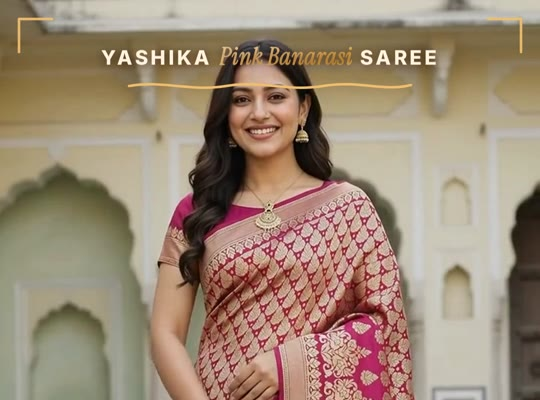
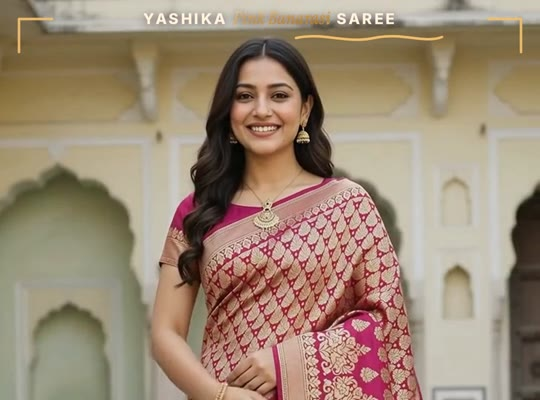
Barsaat beat cuts (136 BPM): reel_s02v4 + reel_k05v3 with face-safe doodle layer

Changed region(s): [[0.1778, 0.03, 0.8296, 1.0]]

diff --git a/docs/videos/index.html b/docs/videos/index.html
@@ -184,7 +184,7 @@ const VIDEOS = [
   { id:"dw-song", title:"Diwali Reel — Bandhani Saree · with song", product:"TJF-S01", dressName:"Satrani Magenta Bandhani Saree",
     serial:"TJF-S01 · ASIN B0FDLFLYMQ", type:"song", version:"diwali", dur:"0:20",
     src:"https://github.com/earning-cpu/nightingale-films/releases/download/videos/diwali_reel_MUSIC_REF.mp4", thumb:"thumbs/dw_a.jpg",
-    productUrl:"https://www.amazon.in/dp/B0FDLFLYMQ?tag=thejaipurifit-21", song:"Mast Magan · 83 BPM · hook" },
+    productUrl:"https://www.amazon.in/dp/B0FDLFLYMQ?tag=thejaipurifit-21", song:"Barsaat (Banjaare) · 136 BPM · hook" },
   { id:"dw-nomusic", title:"Diwali Reel — Bandhani Saree · no music", product:"TJF-S01", dressName:"Satrani Magenta Bandhani Saree",
     serial:"TJF-S01 · ASIN B0FDLFLYMQ", type:"nomusic", version:"diwali", dur:"0:20",
     src:"https://github.com/earning-cpu/nightingale-films/releases/download/videos/diwali_reel_NOMUSIC.mp4", thumb:"thumbs/dw_b.jpg",
@@ -221,31 +221,31 @@ const VIDEOS = [
     src:"https://github.com/earning-cpu/nightingale-films/releases/download/videos/reel_k01v2_SILENT.mp4", thumb:"thumbs/k01v2_c.jpg",
     productUrl:"https://www.amazon.in/dp/B0H8SBFJBX?tag=thejaipurifit-21", song:"no audio at all" },
   // ---------- TJF-S02 Yashika Pink Banarasi Saree ----------
-  { id:"s02-song", title:"Banarasi Saree — Story Cut V3 · with song", product:"TJF-S02", dressName:"Yashika Banarasi Art Silk Saree (Maliya Pink)",
-    serial:"TJF-S02 · ASIN B0CDQDCWSD", type:"song", version:"s02", page:"../silk-saree-reel/", dur:"0:12",
-    src:"https://github.com/earning-cpu/nightingale-films/releases/download/videos/reel_s02v3_MUSIC_REF.mp4", thumb:"thumbs/s02_a.jpg",
-    productUrl:"https://www.amazon.in/dp/B0CDQDCWSD?tag=thejaipurifit-21", song:"Mast Magan · 83 BPM · hook" },
-  { id:"s02-nomusic", title:"Banarasi Saree — Story Cut V3 · no music", product:"TJF-S02", dressName:"Yashika Banarasi Art Silk Saree (Maliya Pink)",
-    serial:"TJF-S02 · ASIN B0CDQDCWSD", type:"nomusic", version:"s02", page:"../silk-saree-reel/", dur:"0:12",
-    src:"https://github.com/earning-cpu/nightingale-films/releases/download/videos/reel_s02v3_NOMUSIC.mp4", thumb:"thumbs/s02_b.jpg",
+  { id:"s02-song", title:"Banarasi Saree — Barsaat Beat Cut · with song", product:"TJF-S02", dressName:"Yashika Banarasi Art Silk Saree (Maliya Pink)",
+    serial:"TJF-S02 · ASIN B0CDQDCWSD", type:"song", version:"s02", page:"../silk-saree-reel/", dur:"0:11",
+    src:"https://github.com/earning-cpu/nightingale-films/releases/download/videos/reel_s02v4_MUSIC_REF.mp4", thumb:"thumbs/s02_a.jpg",
+    productUrl:"https://www.amazon.in/dp/B0CDQDCWSD?tag=thejaipurifit-21", song:"Barsaat (Banjaare) · 136 BPM · hook" },
+  { id:"s02-nomusic", title:"Banarasi Saree — Barsaat Beat Cut · no music", product:"TJF-S02", dressName:"Yashika Banarasi Art Silk Saree (Maliya Pink)",
+    serial:"TJF-S02 · ASIN B0CDQDCWSD", type:"nomusic", version:"s02", page:"../silk-saree-reel/", dur:"0:11",
+    src:"https://github.com/earning-cpu/nightingale-films/releases/download/videos/reel_s02v4_NOMUSIC.mp4", thumb:"thumbs/s02_b.jpg",
     productUrl:"https://www.amazon.in/dp/B0CDQDCWSD?tag=thejaipurifit-21", song:"beat bed · upload this" },
-  { id:"s02-silent", title:"Banarasi Saree — Story Cut V3 · silent", product:"TJF-S02", dressName:"Yashika Banarasi Art Silk Saree (Maliya Pink)",
-    serial:"TJF-S02 · ASIN B0CDQDCWSD", type:"silent", version:"s02", page:"../silk-saree-reel/", dur:"0:12",
-    src:"https://github.com/earning-cpu/nightingale-films/releases/download/videos/reel_s02v3_SILENT.mp4", thumb:"thumbs/s02_c.jpg",
+  { id:"s02-silent", title:"Banarasi Saree — Barsaat Beat Cut · silent", product:"TJF-S02", dressName:"Yashika Banarasi Art Silk Saree (Maliya Pink)",
+    serial:"TJF-S02 · ASIN B0CDQDCWSD", type:"silent", version:"s02", page:"../silk-saree-reel/", dur:"0:11",
+    src:"https://github.com/earning-cpu/nightingale-films/releases/download/videos/reel_s02v4_SILENT.mp4", thumb:"thumbs/s02_c.jpg",
     productUrl:"https://www.amazon.in/dp/B0CDQDCWSD?tag=thejaipurifit-21", song:"no audio at all" },
 
   // ---------- TJF-K05 Klosia Maroon Anarkali ----------
-  { id:"k05-song", title:"Anarkali Kurta Set — Story Cut V2 · with song", product:"TJF-K05", dressName:"Klosia Maroon Printed Anarkali Kurta Set",
+  { id:"k05-song", title:"Anarkali Kurta Set — Barsaat Beat Cut · with song", product:"TJF-K05", dressName:"Klosia Maroon Printed Anarkali Kurta Set",
     serial:"TJF-K05 · ASIN B0FRFXX2C3", type:"song", version:"k05", page:"../maroon-kurta-reel/", dur:"0:09",
-    src:"https://github.com/earning-cpu/nightingale-films/releases/download/videos/reel_k05v2_MUSIC_REF.mp4", thumb:"thumbs/k05_a.jpg",
-    productUrl:"https://www.amazon.in/dp/B0FRFXX2C3?tag=thejaipurifit-21", song:"Mast Magan · 83 BPM · hook" },
-  { id:"k05-nomusic", title:"Anarkali Kurta Set — Story Cut V2 · no music", product:"TJF-K05", dressName:"Klosia Maroon Printed Anarkali Kurta Set",
+    src:"https://github.com/earning-cpu/nightingale-films/releases/download/videos/reel_k05v3_MUSIC_REF.mp4", thumb:"thumbs/k05_a.jpg",
+    productUrl:"https://www.amazon.in/dp/B0FRFXX2C3?tag=thejaipurifit-21", song:"Barsaat (Banjaare) · 136 BPM · hook" },
+  { id:"k05-nomusic", title:"Anarkali Kurta Set — Barsaat Beat Cut · no music", product:"TJF-K05", dressName:"Klosia Maroon Printed Anarkali Kurta Set",
     serial:"TJF-K05 · ASIN B0FRFXX2C3", type:"nomusic", version:"k05", page:"../maroon-kurta-reel/", dur:"0:09",
-    src:"https://github.com/earning-cpu/nightingale-films/releases/download/videos/reel_k05v2_NOMUSIC.mp4", thumb:"thumbs/k05_b.jpg",
+    src:"https://github.com/earning-cpu/nightingale-films/releases/download/videos/reel_k05v3_NOMUSIC.mp4", thumb:"thumbs/k05_b.jpg",
     productUrl:"https://www.amazon.in/dp/B0FRFXX2C3?tag=thejaipurifit-21", song:"beat bed · upload this" },
-  { id:"k05-silent", title:"Anarkali Kurta Set — Story Cut V2 · silent", product:"TJF-K05", dressName:"Klosia Maroon Printed Anarkali Kurta Set",
+  { id:"k05-silent", title:"Anarkali Kurta Set — Barsaat Beat Cut · silent", product:"TJF-K05", dressName:"Klosia Maroon Printed Anarkali Kurta Set",
     serial:"TJF-K05 · ASIN B0FRFXX2C3", type:"silent", version:"k05", page:"../maroon-kurta-reel/", dur:"0:09",
-    src:"https://github.com/earning-cpu/nightingale-films/releases/download/videos/reel_k05v2_SILENT.mp4", thumb:"thumbs/k05_c.jpg",
+    src:"https://github.com/earning-cpu/nightingale-films/releases/download/videos/reel_k05v3_SILENT.mp4", thumb:"thumbs/k05_c.jpg",
     productUrl:"https://www.amazon.in/dp/B0FRFXX2C3?tag=thejaipurifit-21", song:"no audio at all" },
 ];
 

diff --git a/docs/silk-saree-reel/index.html b/docs/silk-saree-reel/index.html
@@ -41,23 +41,23 @@
 <div class="wrap">
   <a class="back" href="../videos/">← All reels (library)</a>
   <h1>Yashika <em>Pink Banarasi</em> Saree</h1>
-  <div class="sub">TJF-S02 · ASIN B0CDQDCWSD · Story Cut V3 · 11.46s · 1080×1920 · 24fps · full quality (no re-compression)</div>
+  <div class="sub">TJF-S02 · ASIN B0CDQDCWSD · Barsaat Beat Cut · 10.54s · 1080×1920 · 24fps · full quality (no re-compression)</div>
 
   <div class="video-box">
     <video controls playsinline preload="metadata"
-      poster="https://github.com/earning-cpu/nightingale-films/releases/download/videos/reel_s02v3_MUSIC_REF_poster.jpg">
-      <source src="https://github.com/earning-cpu/nightingale-films/releases/download/videos/reel_s02v3_MUSIC_REF.mp4" type="video/mp4">
+      poster="https://github.com/earning-cpu/nightingale-films/releases/download/videos/reel_s02v4_MUSIC_REF_poster.jpg">
+      <source src="https://github.com/earning-cpu/nightingale-films/releases/download/videos/reel_s02v4_MUSIC_REF.mp4" type="video/mp4">
     </video>
   </div>
 
   <div class="dl-title">Direct download — fastest (global CDN)</div>
   <div class="dl">
-    <a class="main" href="https://github.com/earning-cpu/nightingale-films/releases/download/videos/reel_s02v3_NOMUSIC.mp4">
-      <span>🎬 NOMUSIC — with 83 BPM beat bed (upload this)</span><span class="sz">15.6 MB</span></a>
-    <a href="https://github.com/earning-cpu/nightingale-films/releases/download/videos/reel_s02v3_MUSIC_REF.mp4">
-      <span>🎵 MUSIC REF — Mast Magan baked (reference)</span><span class="sz">15.7 MB</span></a>
-    <a href="https://github.com/earning-cpu/nightingale-films/releases/download/videos/reel_s02v3_SILENT.mp4">
-      <span>🔇 SILENT — no audio</span><span class="sz">15.6 MB</span></a>
+    <a class="main" href="https://github.com/earning-cpu/nightingale-films/releases/download/videos/reel_s02v4_NOMUSIC.mp4">
+      <span>🎬 NOMUSIC — with 136 BPM beat bed (upload this)</span><span class="sz">12.9 MB</span></a>
+    <a href="https://github.com/earning-cpu/nightingale-films/releases/download/videos/reel_s02v4_MUSIC_REF.mp4">
+      <span>🎵 MUSIC REF — Barsaat baked (reference)</span><span class="sz">13.1 MB</span></a>
+    <a href="https://github.com/earning-cpu/nightingale-films/releases/download/videos/reel_s02v4_SILENT.mp4">
+      <span>🔇 SILENT — no audio</span><span class="sz">12.8 MB</span></a>
   </div>
 
   <div class="card">
@@ -70,14 +70,22 @@
   </div>
 
   <div class="card">
+    <h2>Song — #1 trending in India (Oct 2026)</h2>
+    <div class="facts">
+      <b>"Barsaat" — Banjaare &amp; Roni</b> (Sony Music India) · <b>136 BPM</b>, G major<br>
+      28.3M weekly streams · top of the Spotify-India Reels chart · viral hook ≈ 0:17 in the full song
+    </div>
+  </div>
+
+  <div class="card">
     <h2>Beat map — cuts land exactly here</h2>
     <table>
       <tr><th>Beats</th><th>Time</th><th>Story</th></tr>
-      <tr><td>1–2</td><td>0.00–1.45</td><td>She poses</td></tr>
-      <tr><td>3–5</td><td>1.45–3.62</td><td>She settles into the look</td></tr>
-      <tr><td>6–8</td><td>3.62–6.50</td><td>She holds the gaze</td></tr>
-      <tr><td>9–11</td><td>6.50–7.95</td><td>She turns</td></tr>
-      <tr><td>12–16</td><td>7.95–11.46</td><td>She smiles — ends mid-sway</td></tr>
+      <tr><td>1–4</td><td>0.00–1.76</td><td>She poses</td></tr>
+      <tr><td>5–8</td><td>1.76–3.53</td><td>She settles into the look</td></tr>
+      <tr><td>9–12</td><td>3.53–5.29</td><td>She holds the gaze</td></tr>
+      <tr><td>13–16</td><td>5.29–7.06</td><td>She turns</td></tr>
+      <tr><td>17–24</td><td>7.06–10.54</td><td>She smiles — ends mid-sway</td></tr>
     </table>
   </div>
 
@@ -90,7 +98,7 @@ https://www.amazon.in/dp/B0CDQDCWSD?tag=thejaipurifit-21</div>
   </div>
 
   <div class="note">
-    <b>Upload flow:</b> post the NOMUSIC copy → add <b>Mast Magan</b> (83 BPM) in-app → align the song's first beat to 0:00 → every cut lands on a downbeat.<br>
+    <b>Upload flow:</b> post the NOMUSIC copy → add <b>Barsaat</b> (the trending audio) in-app → slide its first beat onto the first bed tick (0:00) → every cut lands on a downbeat.<br>
     Files stream and download from GitHub's global CDN — MP4s are moov-first (<code>+faststart</code>) so playback begins instantly, at full quality.
   </div>
 </div>

diff --git a/docs/maroon-kurta-reel/index.html b/docs/maroon-kurta-reel/index.html
@@ -41,23 +41,23 @@
 <div class="wrap">
   <a class="back" href="../videos/">← All reels (library)</a>
   <h1>Klosia <em>Maroon Anarkali</em> Set</h1>
-  <div class="sub">TJF-K05 · ASIN B0FRFXX2C3 · Story Cut V2 · 8.67s · 1080×1920 · 24fps · full quality (no re-compression)</div>
+  <div class="sub">TJF-K05 · ASIN B0FRFXX2C3 · Barsaat Beat Cut · 8.83s · 1080×1920 · 24fps · full quality (no re-compression)</div>
 
   <div class="video-box">
     <video controls playsinline preload="metadata"
-      poster="https://github.com/earning-cpu/nightingale-films/releases/download/videos/reel_k05v2_MUSIC_REF_poster.jpg">
-      <source src="https://github.com/earning-cpu/nightingale-films/releases/download/videos/reel_k05v2_MUSIC_REF.mp4" type="video/mp4">
+      poster="https://github.com/earning-cpu/nightingale-films/releases/download/videos/reel_k05v3_MUSIC_REF_poster.jpg">
+      <source src="https://github.com/earning-cpu/nightingale-films/releases/download/videos/reel_k05v3_MUSIC_REF.mp4" type="video/mp4">
     </video>
   </div>
 
   <div class="dl-title">Direct download — fastest (global CDN)</div>
   <div class="dl">
-    <a class="main" href="https://github.com/earning-cpu/nightingale-films/releases/download/videos/reel_k05v2_NOMUSIC.mp4">
-      <span>🎬 NOMUSIC — with 83 BPM beat bed (upload this)</span><span class="sz">18.9 MB</span></a>
-    <a href="https://github.com/earning-cpu/nightingale-films/releases/download/videos/reel_k05v2_MUSIC_REF.mp4">
-      <span>🎵 MUSIC REF — Mast Magan baked (reference)</span><span class="sz">19.0 MB</span></a>
-    <a href="https://github.com/earning-cpu/nightingale-films/releases/download/videos/reel_k05v2_SILENT.mp4">
-      <span>🔇 SILENT — no audio</span><span class="sz">18.8 MB</span></a>
+    <a class="main" href="https://github.com/earning-cpu/nightingale-films/releases/download/videos/reel_k05v3_NOMUSIC.mp4">
+      <span>🎬 NOMUSIC — with 136 BPM beat bed (upload this)</span><span class="sz">18.7 MB</span></a>
+    <a href="https://github.com/earning-cpu/nightingale-films/releases/download/videos/reel_k05v3_MUSIC_REF.mp4">
+      <span>🎵 MUSIC REF — Barsaat baked (reference)</span><span class="sz">18.9 MB</span></a>
+    <a href="https://github.com/earning-cpu/nightingale-films/releases/download/videos/reel_k05v3_SILENT.mp4">
+      <span>🔇 SILENT — no audio</span><span class="sz">18.7 MB</span></a>
   </div>
 
   <div class="card">
@@ -70,14 +70,22 @@
   </div>
 
   <div class="card">
+    <h2>Song — #1 trending in India (Oct 2026)</h2>
+    <div class="facts">
+      <b>"Barsaat" — Banjaare &amp; Roni</b> (Sony Music India) · <b>136 BPM</b>, G major<br>
+      28.3M weekly streams · top of the Spotify-India Reels chart · viral hook ≈ 0:17 in the full song
+    </div>
+  </div>
+
+  <div class="card">
     <h2>Beat map — cuts land exactly here</h2>
     <table>
       <tr><th>Beats</th><th>Time</th><th>Story</th></tr>
-      <tr><td>1</td><td>0.00–0.72</td><td>She poses</td></tr>
-      <tr><td>2–3</td><td>0.72–2.17</td><td>She flares the skirt</td></tr>
-      <tr><td>4–6</td><td>2.17–4.33</td><td>She smiles</td></tr>
-      <tr><td>7–9</td><td>4.33–6.50</td><td>She glides</td></tr>
-      <tr><td>10–12</td><td>6.50–8.67</td><td>She settles & smiles — ends mid-motion</td></tr>
+      <tr><td>1–2</td><td>0.00–0.88</td><td>She poses</td></tr>
+      <tr><td>3–6</td><td>0.88–2.65</td><td>She flares the skirt</td></tr>
+      <tr><td>7–10</td><td>2.65–4.41</td><td>She smiles</td></tr>
+      <tr><td>11–14</td><td>4.41–6.18</td><td>She glides</td></tr>
+      <tr><td>15–20</td><td>6.18–8.83</td><td>She settles & smiles — ends mid-motion</td></tr>
     </table>
   </div>
 
@@ -90,7 +98,7 @@ https://www.amazon.in/dp/B0FRFXX2C3?tag=thejaipurifit-21</div>
   </div>
 
   <div class="note">
-    <b>Upload flow:</b> post the NOMUSIC copy → add <b>Mast Magan</b> (83 BPM) in-app → align the song's first beat to 0:00 → every cut lands on a downbeat.<br>
+    <b>Upload flow:</b> post the NOMUSIC copy → add <b>Barsaat</b> (the trending audio) in-app → slide its first beat onto the first bed tick (0:00) → every cut lands on a beat.<br>
     Files stream and download from GitHub's global CDN — MP4s are moov-first (<code>+faststart</code>) so playback begins instantly, at full quality.
   </div>
 </div>

diff --git a/docs/maroon-kurta-reel/README.md b/docs/maroon-kurta-reel/README.md
@@ -1,35 +1,30 @@
-# Klosia Maroon Anarkali Set — Story Cut V2 (TJF-K05)
+# Klosia Maroon Anarkali Set — Barsaat Beat Cut (TJF-K05)
 
 **Product (verified from Amazon):** KLOSIA Women's Rayon Printed **Anarkali Kurta and Pant with Dupatta Set** — **Maroon** · ASIN **B0FRFXX2C3** · **₹660** (MRP ₹2,999, 78% off) · 4.1★ (11,163) · #1 Best Seller in Clothing & Accessories · 6K+ bought/month · sizes S–5XL
 **Buy link:** https://www.amazon.in/dp/B0FRFXX2C3?tag=thejaipurifit-21
 
-**Reel length: 8.67s (3 bars @ 83 BPM)** — inside the 7–15s viral bracket (2026 data: highest completion 60–80%, 1.8× more replays). Ends mid-smile-motion — no pause.
+**Reel length: 8.83s (5 bars @ 136 BPM)** — inside the 7–15s viral bracket. Ends mid-smile-motion — no pause.
 
-**Song:** "Mast Magan" · Arijit Singh & Chinmayi (2 States) — **83 BPM**, G major. #1 trending India sound (1.4M+ reels, Oct 2026).
-**Upload flow:** post `_NOMUSIC` → add **Mast Magan** in-app → align the song's first beat to video 0:00 → cuts land on beats 1/3/6/9.
+**Song:** "Barsaat" · Banjaare & Roni (Sony Music India, 2026) — **136 BPM**, G major. **#1 most trending Instagram song in India (Oct 2026)** — 28.3M weekly streams, top of the Spotify-India Reels chart.
+**Upload flow:** post `_NOMUSIC` → add **Barsaat** (the trending audio) in-app → slide its first beat onto the first bed tick (video 0:00) → every cut lands on a beat.
 
-## Story cut (every frame studied at native fps; cuts on action boundaries + beats; 5-frame crossfades)
+## Story cut (cuts on action boundaries + beats; 5-frame crossfades)
 | Beats | Time | Story | Source window | Speed |
 |---|---|---|---|---|
-| 1 | 0.00–0.72 | She poses | b3 0.00–0.60 | 0.72× |
-| 2–3 | 0.72–2.17 | She flares the skirt | a2 0.00–1.16 | 0.69× |
-| 4–6 | 2.17–4.33 | She smiles (twirl, arches) | b3 5.00–6.55 | 0.65× |
-| 7–9 | 4.33–6.50 | She glides (steps forward) | b3 6.55–8.03 | 0.62× |
-| 10–12 | 6.50–8.67 | She settles & smiles (ends mid-motion ✓) | a2 8.25–10.14 | 0.83× |
+| 1–2 | 0.00–0.88 | She poses | b3 0.00–0.60 | 0.59× |
+| 3–6 | 0.88–2.65 | She flares the skirt | a2 0.00–1.16 | 0.61× |
+| 7–10 | 2.65–4.41 | She smiles (twirl, arches) | b3 5.00–6.55 | 0.81× |
+| 11–14 | 4.41–6.18 | She glides (steps forward) | b3 6.55–8.03 | 0.78× |
+| 15–20 | 6.18–8.83 | She settles & smiles (ends mid-motion ✓) | a2 8.25–10.14 | 0.68× |
 
-## Motion graphics layer (built on the finished cut, perfectly synced)
-- 0.02–0.55s hook: hand-drawn circle-scribble around the figure + star pops + "new in" tag
-- star burst on every cut midpoint; squiggle underline draws under the headline at beat 1
-- detail call-outs: arrow → flare + hand-drawn circle → hem border (beats 2–3), circle → sleeve cuff (beats 7–8)
+## Motion graphics layer (face-safe: nothing ever crosses her face or hair)
+- 0.02–0.5s hook: open C-arc doodle around the **body only** (never reaches the head) + star pops + "new in" tag
+- headline sits in the top margin with clear air above her hair; squiggle underline to the right of her head
+- star burst on every cut; call-outs (arrow + circle → hem border, circle → sleeve cuff) — thin strokes, never covering the dress
 - closing heart doodle + `@thejaipurifit · link in bio`
-- ink-cream/gold doodles, thin strokes — attract attention **without covering the dress**
 
 ## Glitch audit (every native frame checked — 24/30fps full-frame study)
-CUT OUT (user-reported AI issues):
-- **Dupatta canopy / held-out "wings"** windows (b3 0.67–4.93, a2 1.17–8.00) — none ship in this reel
-- **AI background drift** found in b3 itself: the wall morphs into palace arches between ~1.3–3.5s — only the stable ends (0.0–0.6 wall, 5.0–8.0 arches) are used, so no drift is visible
-- every shipped window verified stable at native fps
-Transitions are 5-frame crossfades centered on the cut beats — no hard jumps, no AI motion.
+CUT OUT: all dupatta canopy / held-out "wings" windows; the b3 AI background drift (wall→arches morph at 1.3–3.5s) is avoided — only its stable ends are used. Every shipped window verified stable at native fps.
 
 ## On-screen text (product-verified)
 - Headline: **KLOSIA Maroon Anarkali SET**
@@ -38,9 +33,9 @@ Transitions are 5-frame crossfades centered on the cut beats — no hard jumps, 
 - Line 3: @thejaipurifit · link in bio — **no price on screen** (price in caption only)
 
 ## Variants (fast download: GitHub release CDN, moov-first MP4 = instant stream)
-- `reel_k05v2_MUSIC_REF.mp4` — Mast Magan baked (reference)
-- `reel_k05v2_NOMUSIC.mp4` — soft 83 BPM beat bed (**upload this**)
-- `reel_k05v2_SILENT.mp4` — no audio
+- `reel_k05v3_MUSIC_REF.mp4` — Barsaat baked (reference)
+- `reel_k05v3_NOMUSIC.mp4` — soft 136 BPM beat bed (**upload this**)
+- `reel_k05v3_SILENT.mp4` — no audio
 
 ## Suggested caption (price only in caption)
 > KLOSIA Rayon Printed Anarkali Kurta with Pant & Dupatta Set (Maroon) ✨

diff --git a/docs/silk-saree-reel/README.md b/docs/silk-saree-reel/README.md
@@ -1,35 +1,30 @@
-# Yashika Pink Banarasi Saree — Story Cut V3 (TJF-S02)
+# Yashika Pink Banarasi Saree — Barsaat Beat Cut (TJF-S02)
 
 **Product (verified from Amazon):** Yashika Women's Trendy Banarasi Kanjivaram **Art Silk** Saree with Blouse Material — **Pink (Maliya Pink)** · ASIN **B0CDQDCWSD** · **₹369** (MRP ₹1,799, 79% off) · 4.0★ (2,372) · #1 Best Seller in Women's Sarees · 3K+ bought/month
 **Buy link:** https://www.amazon.in/dp/B0CDQDCWSD?tag=thejaipurifit-21
 
-**Reel length: 11.46s (≈4 bars @ 83 BPM)** — inside the 7–15s viral bracket (2026 data: highest completion 60–80%, 1.8× more replays). Ends mid-sway — no pause.
+**Reel length: 10.54s (6 bars @ 136 BPM)** — inside the 7–15s viral bracket. Ends mid-sway — no pause.
 
-**Song:** "Mast Magan" · Arijit Singh & Chinmayi (2 States) — **83 BPM**, G major. #1 trending India sound (1.4M+ reels, Oct 2026).
-**Upload flow:** post `_NOMUSIC` → add **Mast Magan** in-app → align the song's first beat to video 0:00 → cuts land on beats 2/5/9/11.
+**Song:** "Barsaat" · Banjaare & Roni (Sony Music India, 2026) — **136 BPM**, G major. **#1 most trending Instagram song in India (Oct 2026)** — 28.3M weekly streams, top of the Spotify-India Reels chart.
+**Upload flow:** post `_NOMUSIC` → add **Barsaat** (the trending audio) in-app → slide its first beat onto the first bed tick (video 0:00) → every cut lands on a bar downbeat.
 
-## Story cut (every frame studied at native fps; cuts on action boundaries + beats; 5-frame crossfades)
+## Story cut (cuts on action boundaries + bar downbeats; 5-frame crossfades)
 | Beats | Time | Story | Source window | Speed |
 |---|---|---|---|---|
-| 1–2 | 0.00–1.45 | She poses (arm extended) | a1 0.00–1.13 | 0.73× |
-| 3–5 | 1.45–3.62 | She settles into the look | a1 3.83–5.85 | 0.85× |
-| 6–8 | 3.62–6.50 | She holds the gaze (drape sway) | b2 5.83–8.30 | 0.80× |
-| 9–11 | 6.50–7.95 | She turns | a1 6.35–7.45 | 0.66× |
-| 12–16 | 7.95–11.46 | She smiles (ends mid-sway ✓) | a1 7.45–10.08 | 0.71× |
+| 1–4 | 0.00–1.76 | She poses (arm extended) | a1 0.00–1.13 | 0.59× |
+| 5–8 | 1.76–3.53 | She settles into the look | a1 3.83–5.20 | 0.72× |
+| 9–12 | 3.53–5.29 | She holds the gaze (drape sway) | b2 5.83–7.33 | 0.79× |
+| 13–16 | 5.29–7.06 | She turns | a1 6.35–7.45 | 0.58× |
+| 17–24 | 7.06–10.54 | She smiles (ends mid-sway ✓) | a1 7.45–10.08 | 0.72× |
 
-## Motion graphics layer (built on the finished cut, perfectly synced)
-- 0.02–0.8s hook: hand-drawn circle-scribble around the figure + star pops + "new in" tag
-- star burst on every cut midpoint; squiggle underline draws under the headline at beat 2
-- detail call-outs only on settled shots: arrow → shoulder/cuff, hand-drawn circle → drape border
+## Motion graphics layer (face-safe: nothing ever crosses her face or hair)
+- 0.03–0.7s hook: open C-arc doodle around the **body only** (never reaches the head) + star pops + "new in" tag
+- headline sits in the top margin with clear air above her hair; squiggle underline to the right of her head
+- star burst on every cut; call-outs (arrow, hand-drawn circle) only on drape/hem — thin strokes, never covering the dress
 - closing heart doodle + `@thejaipurifit · link in bio`
-- ink-cream/gold doodles, thin strokes — attract attention **without covering the dress**
 
 ## Glitch audit (every native frame checked — 24fps full-frame study)
-CUT OUT (user-reported AI issues):
-- **All saree throw / pallu flip / flick windows** (a1 1.17–3.83 incl. back-turn, b2 0.5–3.58 plain-gold sheet morph, b2 4.67–5.75 flick) — none ship in this reel
-- **Print morph** windows and the hand-at-chest re-gather (b2 3.67–4.58) — avoided
-- every shipped window verified pattern-stable at native fps
-Transitions are 5-frame crossfades centered on the cut beats — no hard jumps, no AI motion.
+CUT OUT (user-reported AI issues): all saree throw / pallu flip / flick windows; print-morph and re-gather windows. Every shipped window verified pattern-stable at native fps. Transitions are 5-frame crossfades centered on the cut beats.
 
 ## On-screen text (product-verified)
 - Headline: **YASHIKA Pink Banarasi SAREE**
@@ -38,9 +33,9 @@ Transitions are 5-frame crossfades centered on the cut beats — no hard jumps, 
 - Line 3: @thejaipurifit · link in bio — **no price on screen** (price in caption only)
 
 ## Variants (fast download: GitHub release CDN, moov-first MP4 = instant stream)
-- `reel_s02v3_MUSIC_REF.mp4` — Mast Magan baked (reference)
-- `reel_s02v3_NOMUSIC.mp4` — soft 83 BPM beat bed (**upload this**)
-- `reel_s02v3_SILENT.mp4` — no audio
+- `reel_s02v4_MUSIC_REF.mp4` — Barsaat baked (reference)
+- `reel_s02v4_NOMUSIC.mp4` — soft 136 BPM beat bed (**upload this**)
+- `reel_s02v4_SILENT.mp4` — no audio
 
 ## Suggested caption (price only in caption)
 > Yashika Banarasi Kanjivaram Art Silk Saree (Maliya Pink) ✨ with blouse piece
